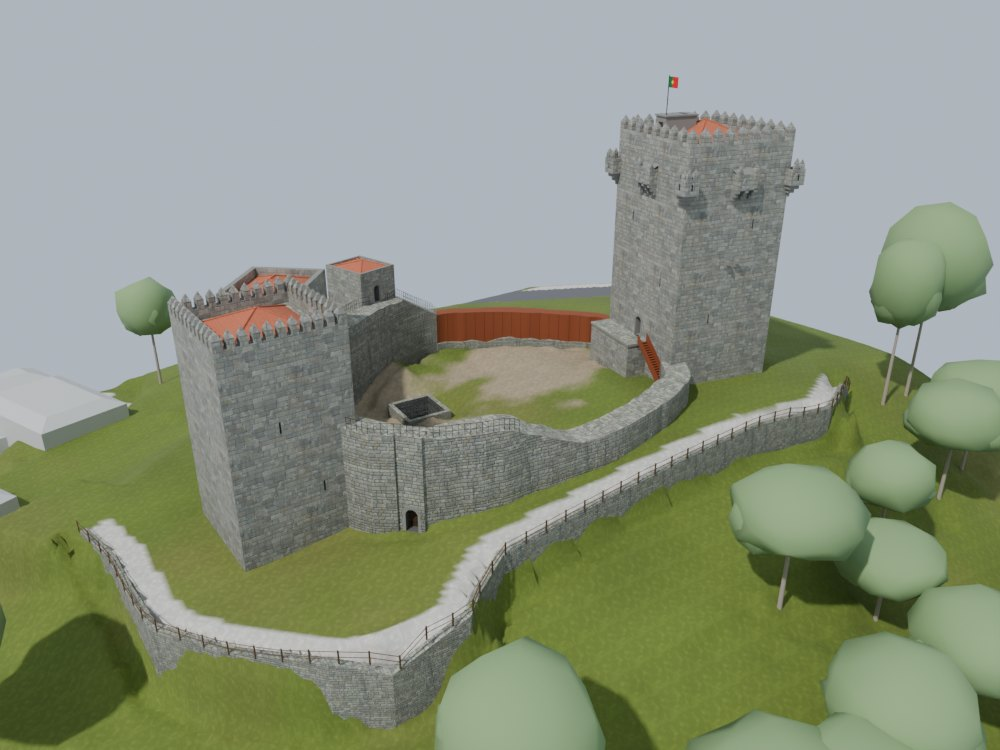
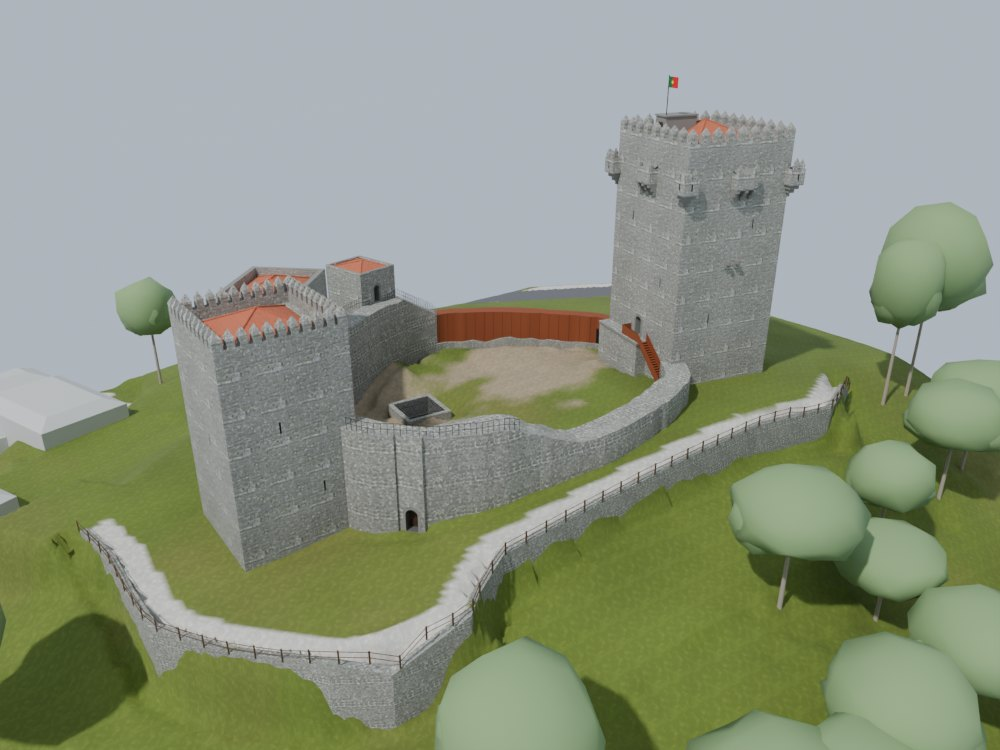
Montalegre 0.5: guarda de aço no patamar da porta da torre
A chapa de fora da escada corten vira no topo e continua como guarda do
patamar, pela frente da cornija até c. 0,8 m para lá da porta, com
retorno até à parede (fotografias do pé da escada, de nascente e do alto
da torre sueste). O patamar fica com 1,25 m sem a cornija, na linha da
chapa da escada, e a cornija passa a duas fiadas. Novas vistas
patamar_guarda e patamar_guarda_poente.

Claude-Session: https://claude.ai/code/session_01AYdn4WRSWuC68U5JenquCw

diff --git a/pipeline/maquetas/montalegre/construir.py b/pipeline/maquetas/montalegre/construir.py
@@ -682,6 +682,8 @@ def setor(a0, a1, r0=8.0, r1=30.0, passo=1.0):
 TM = Torre("menagem")
 Z_ADARVE_TM, Z_SILL_TM, Z_M1_TM, Z_MP_TM = 1037.53, 1038.35, 1039.05, 1039.72
 Z_PLAT = 1017.60     # patamar de pedra da porta (face sul), estimado nas fotografias
+D_PLAT = 1.25        # fundura do patamar sem a cornija (a guarda de aço da escada vira na frente, fotografia 0e257)
+S_GUARDA_W = -1.6    # ponta poente da guarda do patamar, c. 0,8 m para lá da porta, com retorno até à parede (fotografias)
 Z_PISO_BAL = 1034.0  # piso dos balcões e das guaritas (LiDAR: pontos dos parapeitos a 1035,4)
 
 
@@ -717,12 +719,14 @@ def torre_menagem():
     f, _ = fs["+u"]
     for s in (-0.55, 0.55):
         misula(m, f, s, 1026.9, larg=0.36, sal=0.6, n=2, alt=0.36)
-    # patamar de pedra da porta, com cornija (fotografia da escada de aço)
+    # patamar de pedra da porta, com cornija de duas fiadas (fotografias da escada de aço, de drone de nascente e do
+    # alto da torre sueste): a frente do patamar fica na linha da chapa de fora da escada, onde a guarda de aço vira
     f, _ = fs["-v"]
-    zp0 = chao_min(shapely.Polygon([f.xy(-6.05, 0), f.xy(1.5, 0), f.xy(1.5, 2.3), f.xy(-6.05, 2.3)]), 0.5) - 0.6
-    m.caixa_face(f, -6.05, 1.5, -0.05, 2.3, zp0, Z_PLAT - 0.25, 0, topo=False)
-    m.caixa_face(f, -6.05, 1.62, -0.05, 2.42, Z_PLAT - 0.25, Z_PLAT, 1, topo=False)
-    m.face(orientar([f.p(-6.05, -0.05, Z_PLAT), f.p(1.62, -0.05, Z_PLAT), f.p(1.62, 2.42, Z_PLAT), f.p(-6.05, 2.42, Z_PLAT)], np.array([0, 0, 1.0])), 4)
+    zp0 = chao_min(shapely.Polygon([f.xy(-6.05, 0), f.xy(1.5, 0), f.xy(1.5, D_PLAT), f.xy(-6.05, D_PLAT)]), 0.5) - 0.6
+    m.caixa_face(f, -6.05, 1.5, -0.05, D_PLAT, zp0, Z_PLAT - 0.45, 0, topo=False)
+    m.caixa_face(f, -6.05, 1.56, -0.05, D_PLAT + 0.06, Z_PLAT - 0.45, Z_PLAT - 0.25, 1, topo=False)
+    m.caixa_face(f, -6.05, 1.62, -0.05, D_PLAT + 0.12, Z_PLAT - 0.25, Z_PLAT, 1, topo=False)
+    m.face(orientar([f.p(-6.05, -0.05, Z_PLAT), f.p(1.62, -0.05, Z_PLAT), f.p(1.62, D_PLAT + 0.12, Z_PLAT), f.p(-6.05, D_PLAT + 0.12, Z_PLAT)], np.array([0, 0, 1.0])), 4)
     m.objeto("torre_menagem", "torre", GRUPOS["Torre"], uv=3.0, vcor=patine_torre)
     # telhado e casota da escada
     t = Malha(["telha", "cantaria_lisa", "sombra", "madeira_porta"])
@@ -787,8 +791,17 @@ def escada_aco():
         cont = [(-s, z) for s, z in cont]      # o painel quer contornos válidos; s ao contrário para ficar anti-horário
         fr = Plano(f.xy(0, d), -f.t, n=f.n)
         placa(m, fr, cont, 0.025, 0)
+    # guarda do patamar (fotografia do pé da escada e do alto da torre sueste): a chapa de fora da escada vira no topo
+    # e segue a direito pela frente do patamar, por cima da cornija, até para lá da porta, e volta até à parede;
+    # chapa cheia de corten, 1 m acima do piso, com o rebordo de cima dobrado como nas chapas da escada
+    dg = d1 + 0.025
+    m.caixa_face(f, S_GUARDA_W, s_topo - 0.05, dg - 0.025, dg, Z_PLAT - 0.02, Z_PLAT + 1.0, 0, fundo=True)
+    m.caixa_face(f, S_GUARDA_W, S_GUARDA_W + 0.025, 0.0, dg - 0.025, Z_PLAT - 0.02, Z_PLAT + 1.0, 0, fundo=True)
+    m.caixa_face(f, S_GUARDA_W, s_topo - 0.05, dg - 0.06, dg, Z_PLAT + 0.985, Z_PLAT + 1.0, 1, fundo=True)
     m.objeto("escada_aco", "escada_torre", GRUPOS["Torre"], uv=1.0)
-    MEDIDAS["escada_torre"] = {"degraus": n, "pe": round(z_pe, 2), "patamar": Z_PLAT, "espelho": round(esp_d, 3), "largura": round(d1 - d0, 2)}
+    MEDIDAS["escada_torre"] = {"degraus": n, "pe": round(z_pe, 2), "patamar": Z_PLAT, "espelho": round(esp_d, 3), "largura": round(d1 - d0, 2),
+                               "guarda_patamar": {"comprimento": round(s_topo - 0.05 - S_GUARDA_W, 2), "retorno": round(dg, 2), "altura": 1.0},
+                               "patamar_fundura": D_PLAT}
 
 
 # ---------------------------------------------------------------- torres do sul
@@ -1622,6 +1635,9 @@ if "--vistas" in sys.argv:
         # escada do adarve poente, de dentro do pátio (fotografias de nascente e de norte)
         vista("escada_adarve", (-9.0, -15.0), 1030.0, (-21.0, -22.0), 1017.0, lente=30, res=(1000, 750), perto=0.3)
         vista("escada_adarve_norte", (-19.0, -6.0), 1016.0, (-21.5, -23.0), 1018.0, lente=30, res=(1000, 750), perto=0.3)
+        # guarda de aço do patamar da porta, de perto: de sueste, um pouco acima, e de sudoeste
+        vista("patamar_guarda", tuple(TM.W(7.0, -13.0)), 1021.5, tuple(TM.W(0.0, -6.8)), 1018.0, lente=28, res=(1000, 750), perto=0.2)
+        vista("patamar_guarda_poente", tuple(TM.W(-7.5, -12.0)), 1020.5, tuple(TM.W(0.0, -6.8)), 1017.8, lente=28, res=(1000, 750), perto=0.2)
         # coroamento da torre de menagem de perto, de sudoeste
         vista("coroamento", tuple(TM.W(-10.0, -12.0)), 1042.0, (0.0, 0.0), 1036.0, lente=30, res=(1000, 750), perto=0.3)
         # planta (ortográfica, norte para cima), para comparar com o ortofotomapa

diff --git a/pipeline/maquetas/montalegre/visor.py b/pipeline/maquetas/montalegre/visor.py
@@ -27,7 +27,7 @@ def el(i, nome, grupo, conf, desc, med, fontes, resumo):
 
 d = {
     "monumento": "montalegre", "titulo": "Castelo de Montalegre", "variante": "estado-atual",
-    "versao": "0.4 provisória", "data": "2026-11-05",
+    "versao": "0.5 provisória", "data": "2026-11-12",
     "origem": {"lat": 41.826068, "lon": -7.790920,
                "nota": "Centro da torre de menagem (LiDAR). Eixos da maqueta: x para este, y para norte (PT-TM06 menos a origem), no visor -z é o norte, em metros à escala 1:1; as cotas são altitudes."},
     "fontes": {
@@ -67,7 +67,7 @@ d = {
            "A porta fica alta, na face voltada ao pátio, em arco de volta perfeita, sobre um patamar de pedra com cornija.",
            f"Patamar a c. {n(T['porta'], 2)} m, c. 5 m acima do pátio (estimado nas fotografias).", ["fotos"], "Porta alta sobre o patamar"),
         el("escada_torre", "Escada de aço", "Torre", "média",
-           "Uma escada moderna de aço corten, com chapas cheias de guarda, sobe do pátio ao patamar da porta ao longo da face sul.",
+           "Uma escada moderna de aço corten, com chapas cheias de guarda, sobe do pátio ao patamar da porta ao longo da face sul. Lá em cima, a chapa de fora vira e continua como guarda do patamar, pela frente da cornija até para lá da porta, e volta até à parede.",
            f"{E['degraus']} degraus de c. {n(E['espelho'] * 100, 0)} cm, de {n(E['pe'], 2)} a {n(E['patamar'], 2)} m (estimado nas fotografias).", ["fotos"], "Escada de aço corten"),
         el("torre_se", "Torre de sueste", "Torres", "alta",
            "A maior das três torres do sul, quadrada, com onze merlões piramidais por face e telhado de telha por dentro do adarve.",

diff --git a/pipeline/maquetas/montalegre/LEIAME.md b/pipeline/maquetas/montalegre/LEIAME.md
@@ -1,6 +1,6 @@
 # Maqueta 3D do Castelo de Montalegre (estado atual)
 
-Versão 0.4, **provisória** (0.4: a escada do adarve poente passa a ser o próprio muro em degraus de granito, de lado a lado, com guardas de aço galvanizado claro dos dois lados, como nas fotografias de norte e de nascente; 0.3: as entradas de fora refeitas, a poterna e a porta do sul com face plana, aduelas, vão recuado e porta de madeira, a porta do sul mudada para o azimute 230° e a porta do corredor de aço no vão do muro de pedra; 0.2: portas das torres sueste, sul e de sudoeste e arco de dentro da poterna pela fotografia de 2022 do alto da torre de menagem; grade da cisterna; pátio com relva e manchas de terra). Só o castelo: a torre de menagem com os merlões, os balcões com matacães, as guaritas dos cunhais, o telhado, a casota da escada, a bandeira, a porta alta com o patamar e a escada de aço corten; as três torres do sul; a cerca com os adarves, as guardas de ferro, a poterna e a porta em arco do sul; o corredor de entrada de aço corten no troço noroeste, a escada de aço do adarve e o passadiço de madeira; a cisterna; as duas ruínas em ferradura a norte; a barbacã com o caminho lajeado e a vedação. A envolvente é mínima: relvado, árvores do LiDAR afastadas dos muros e os edifícios da vila em volumes simples de um só cinzento. Gerada por código, à escala 1:1 e georreferenciada: origem no centro da torre de menagem (41,826068, −7,790920; PT-TM06 28427,67, 239679,35), x para este e y para norte, cotas = altitudes. Caixa do modelo: x −58..52, y −78..32.
+Versão 0.5, **provisória** (0.5: guarda de aço corten no patamar da porta da torre de menagem, a continuar a chapa de fora da escada pela frente do patamar até c. 0,8 m para lá da porta, com retorno até à parede, e patamar mais estreito (1,25 m sem a cornija, com duas fiadas de cornija), como nas fotografias do pé da escada, de nascente e do alto da torre sueste; 0.4: a escada do adarve poente passa a ser o próprio muro em degraus de granito, de lado a lado, com guardas de aço galvanizado claro dos dois lados, como nas fotografias de norte e de nascente; 0.3: as entradas de fora refeitas, a poterna e a porta do sul com face plana, aduelas, vão recuado e porta de madeira, a porta do sul mudada para o azimute 230° e a porta do corredor de aço no vão do muro de pedra; 0.2: portas das torres sueste, sul e de sudoeste e arco de dentro da poterna pela fotografia de 2022 do alto da torre de menagem; grade da cisterna; pátio com relva e manchas de terra). Só o castelo: a torre de menagem com os merlões, os balcões com matacães, as guaritas dos cunhais, o telhado, a casota da escada, a bandeira, a porta alta com o patamar e a escada de aço corten; as três torres do sul; a cerca com os adarves, as guardas de ferro, a poterna e a porta em arco do sul; o corredor de entrada de aço corten no troço noroeste, a escada de aço do adarve e o passadiço de madeira; a cisterna; as duas ruínas em ferradura a norte; a barbacã com o caminho lajeado e a vedação. A envolvente é mínima: relvado, árvores do LiDAR afastadas dos muros e os edifícios da vila em volumes simples de um só cinzento. Gerada por código, à escala 1:1 e georreferenciada: origem no centro da torre de menagem (41,826068, −7,790920; PT-TM06 28427,67, 239679,35), x para este e y para norte, cotas = altitudes. Caixa do modelo: x −58..52, y −78..32.
 
 ## Como reconstruir
 
@@ -55,7 +55,7 @@ Opções do `construir.py`: `--sem-glb`, `--vistas`, `--capa`, `--so=a,b`, `--am
 ## Fotografias de referência e pontos de vista (`vistas/`)
 
 As fotografias enviadas (autorizadas para a galeria em 2026-11-04, menos o cartaz e a captura do Google Maps) e as vistas que as reproduzem:
-`62d1_sul` (drone de sul-sudoeste), `3b33_poente` (do relvado a poente, antes do corredor de aço), `05d9_norte` (de norte, ao longo do passadiço), `0e257_escada` (do pé da escada de aço), `4f30_nascente` (drone de nascente), `f05_torre_se` (drone por cima da torre sueste), `gm_torre_sul` (do alto da torre de menagem para sul, como a fotografia de 2022 enviada no dia 4), `escada_adarve` e `escada_adarve_norte` (a escada do adarve poente), `poterna_fora`, `porta_sul_fora` e `porta_corredor_fora` (as entradas de fora, de perto), `coroamento` e `topo` (planta para comparar com o ortofotomapa).
+`62d1_sul` (drone de sul-sudoeste), `3b33_poente` (do relvado a poente, antes do corredor de aço), `05d9_norte` (de norte, ao longo do passadiço), `0e257_escada` (do pé da escada de aço), `4f30_nascente` (drone de nascente), `f05_torre_se` (drone por cima da torre sueste), `gm_torre_sul` (do alto da torre de menagem para sul, como a fotografia de 2022 enviada no dia 4), `escada_adarve` e `escada_adarve_norte` (a escada do adarve poente), `patamar_guarda` e `patamar_guarda_poente` (a guarda do patamar da porta da torre, de perto), `poterna_fora`, `porta_sul_fora` e `porta_corredor_fora` (as entradas de fora, de perto), `coroamento` e `topo` (planta para comparar com o ortofotomapa).
 
 ## Geoportal da Câmara
 
